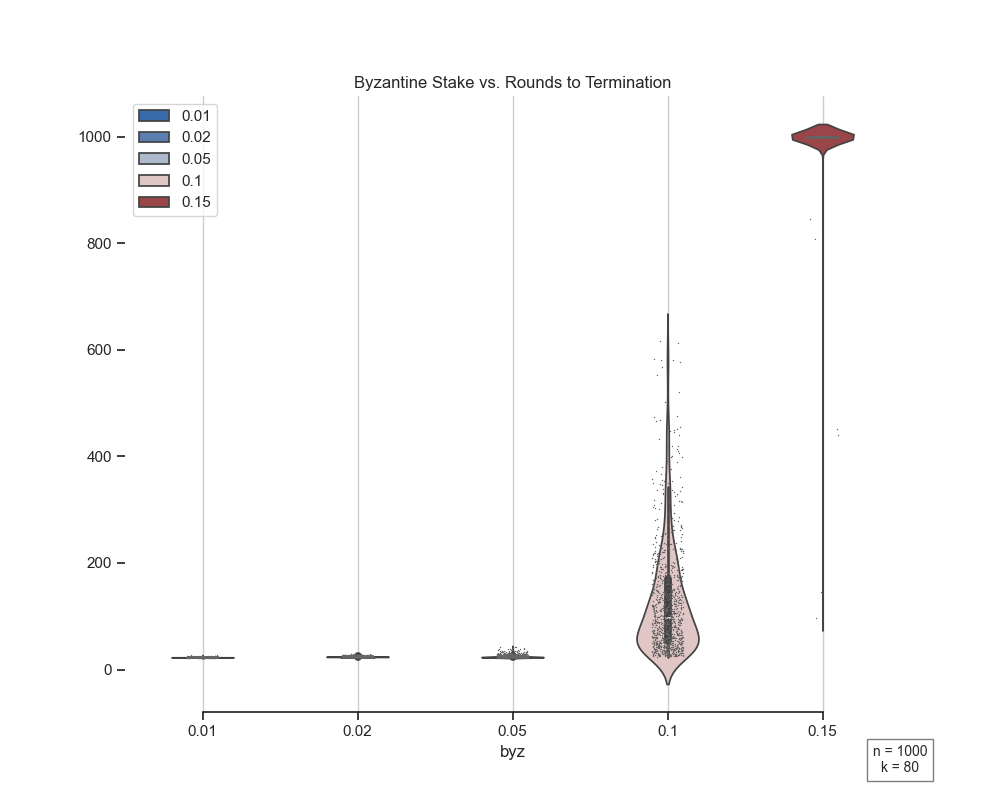
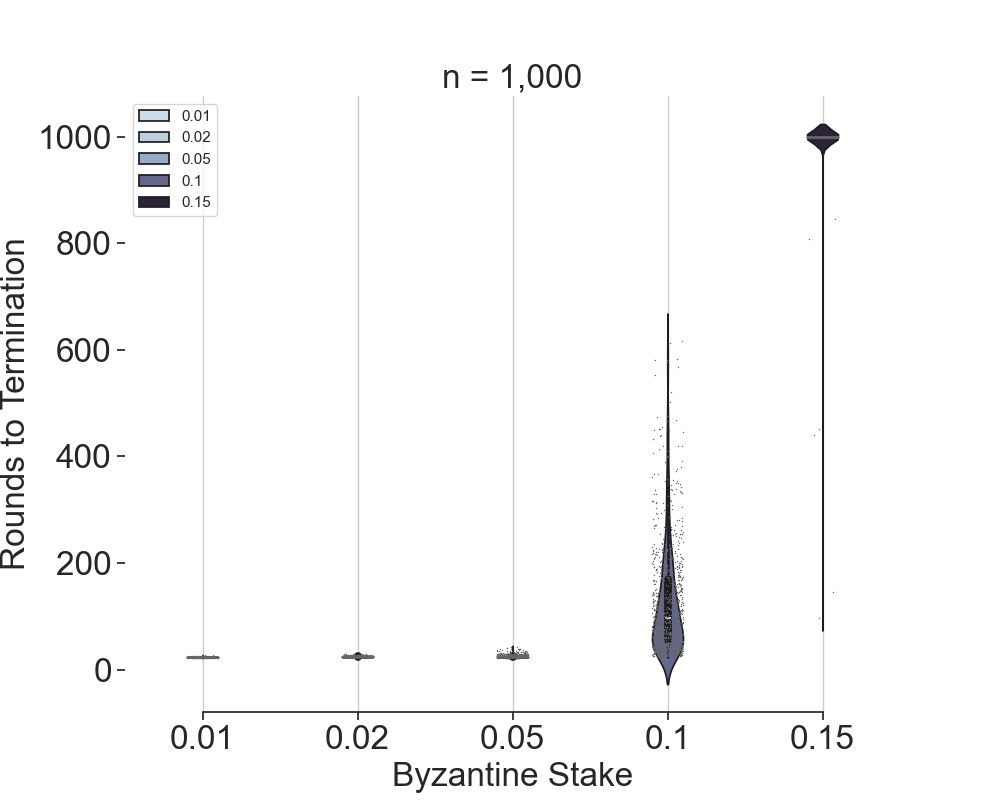
Update fontsize to look better within paper

diff --git a/cmd/snowball/graph.py b/cmd/snowball/graph.py
@@ -6,6 +6,8 @@ import pandas as pd
 def graph_byz_round_to_termination(csv: str, n: int, k: int, save_path: str = None):
     sns.set_theme(style="ticks") # sets a global theme
 
+    fontsize = 24
+
     # Initialize the figure with a linear x axis
     f, ax = plt.subplots(figsize=(10, 8))
     ax.set_xscale("linear")
@@ -17,30 +19,37 @@ def graph_byz_round_to_termination(csv: str, n: int, k: int, save_path: str = No
     # capped at 1k rounds
     # violin plot may be good too
     sns.violinplot(
-        simdata, x="byz", y="rounds", hue="byz", width=.4, palette="vlag",
-        # whis=[0, 100],
-    ).set_title('Byzantine Stake vs. Rounds to Termination')
+        simdata, x="byz", y="rounds", hue="byz", width=.2, palette=sns.color_palette("ch:s=.25,rot=-.25", as_cmap=True),
+        # whis=[0.25, 0.75],
+    ).set_title(f"n = {'{:,}'.format(n)}", fontsize=fontsize)
 
     # Add in points to show each observation
     sns.stripplot(simdata, x="byz", y="rounds", size=1, color=".4")
 
     # Tweak the visual presentation
     ax.xaxis.grid(True)
-    ax.set(ylabel="")
+    ax.set_xlabel("Byzantine Stake", fontsize=fontsize)
+    ax.set_ylabel("Rounds to Termination", fontsize=fontsize)
     sns.despine(trim=True, left=True)
 
-    plt.figtext(0.9, 0.05, f'n = {n}\nk = {k}', ha='center', va='center', fontsize=10, bbox=dict(facecolor='white', alpha=0.5, edgecolor='black'))
-
+    plt.xticks(fontsize=fontsize)
+    plt.yticks(fontsize=fontsize)
 
     if save_path is not None:
         plt.savefig(save_path)
+    else:
+        plt.show()
 
-    plt.show()
-
-def run():
-    n, k = 10000, 80
+def show():
+    n, k = 500, 80
     base = f'snow-sim/snow-sim-output-n-{n}-k-{k}'
-    graph_byz_round_to_termination(f'{base}.csv', n, k, f'{base}.png')
+    graph_byz_round_to_termination(f'{base}.csv', n, k)
+
+def save_each():
+    k = 80
+    for n in [500, 1000, 10000]:
+        base = f'snow-sim/snow-sim-output-n-{n}-k-{k}'
+        graph_byz_round_to_termination(f'{base}.csv', n, k, f'{base}.png')
 
 if __name__ == "__main__":
-    run()
+    show()
